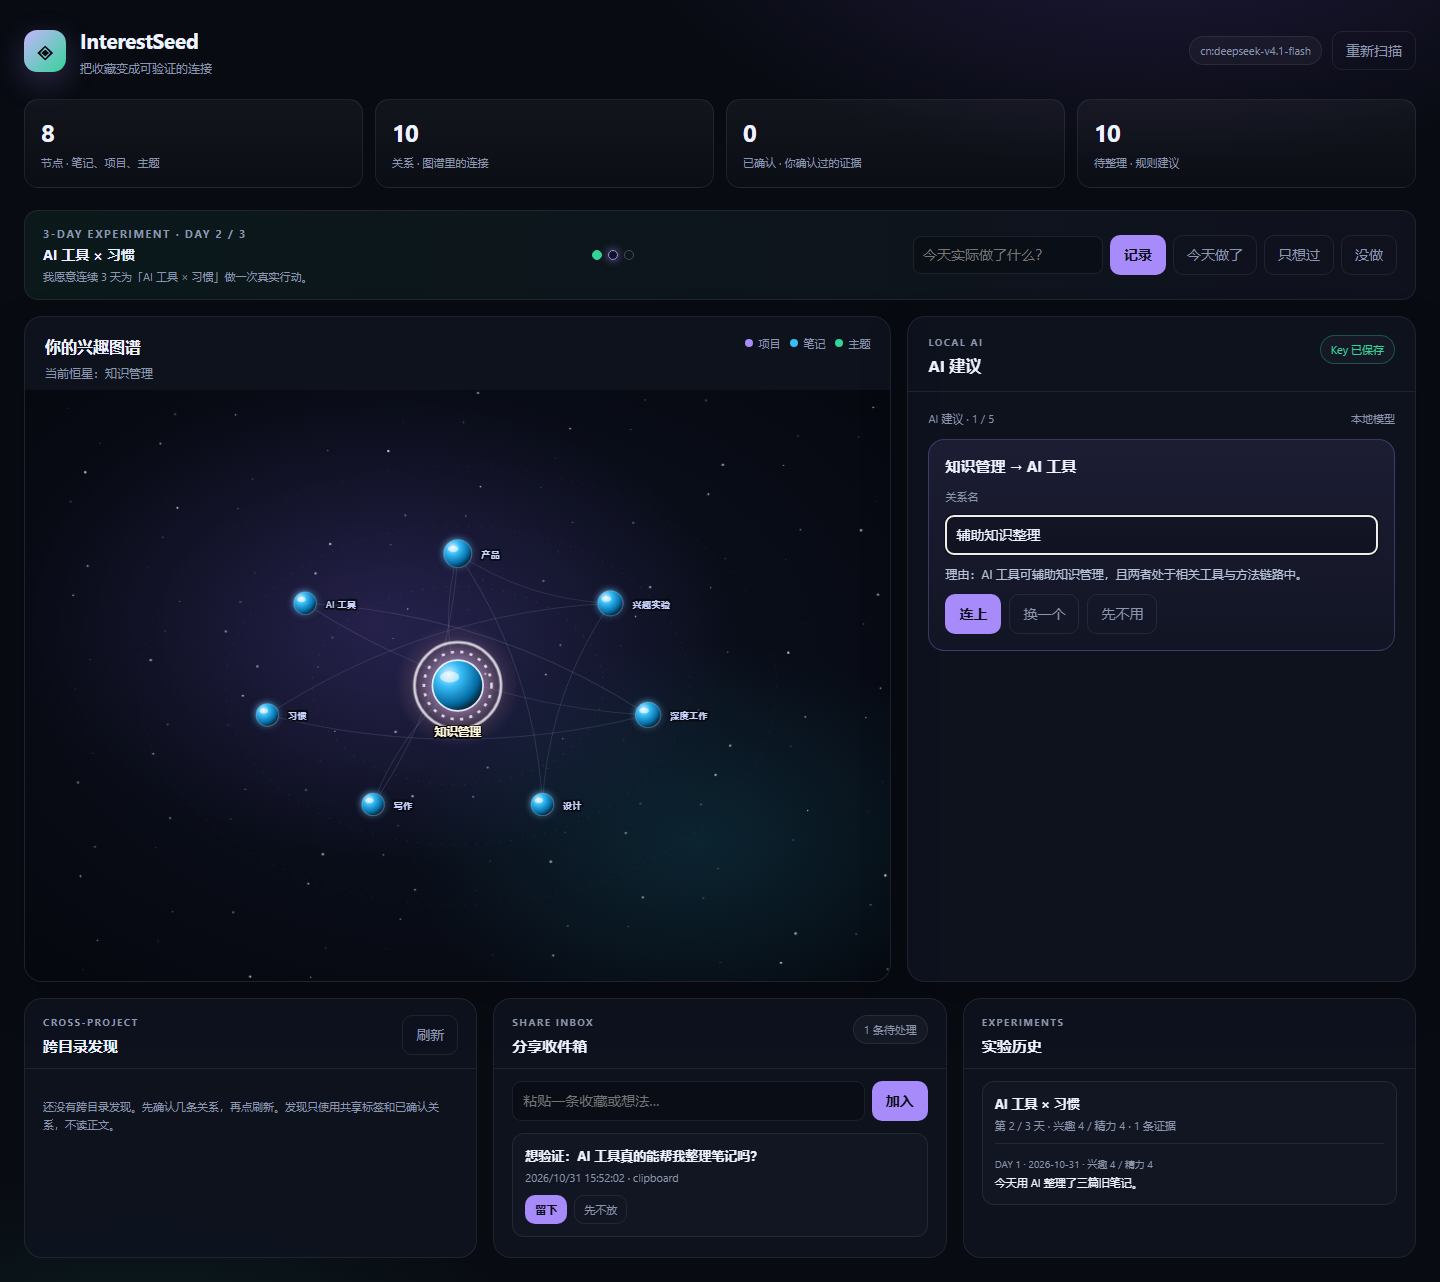
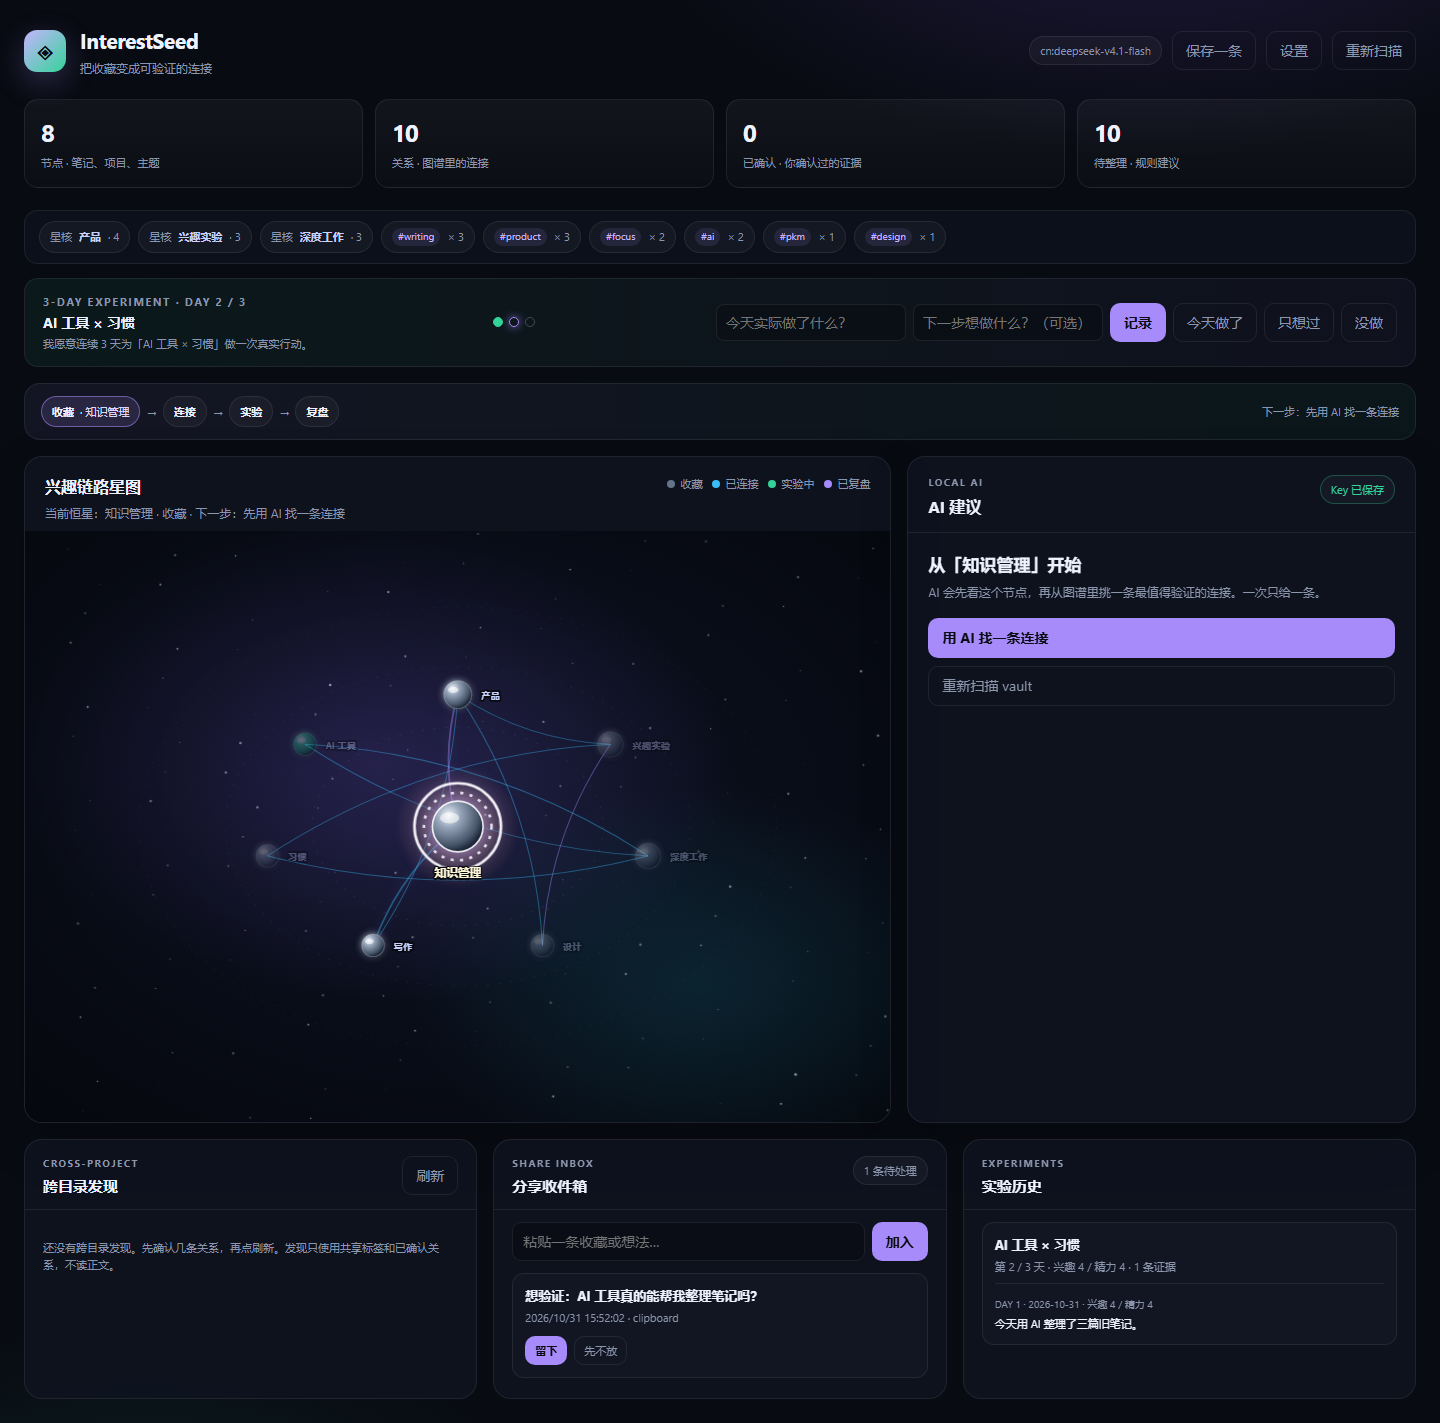
Clarify the InterestSeed chain in the planet graph

diff --git a/standalone/web/app.js b/standalone/web/app.js
@@ -37,6 +37,7 @@ function render() {
   keyStatus.className = `pill ${state.data.keyReady ? 'ready' : 'missing'}`;
   renderStats();
   renderInsights();
+  renderChainStrip();
   renderGraph();
   renderExperiment();
   renderDiscoveries();
@@ -361,6 +362,48 @@ function svgEl(name, attrs = {}) {
   return element;
 }
 
+function chainStateOf(nodeId) {
+  const graph = state.data?.graph;
+  if (!graph) return 'captured';
+  const experiments = state.data.experiments ?? [];
+  if (experiments.some((item) => item.nodeId === nodeId && item.status === 'active')) return 'experimenting';
+  if (experiments.some((item) => item.nodeId === nodeId && item.status === 'complete')) return 'reviewed';
+  const connected = graph.edges.some((edge) => edge.status === 'confirmed'
+    && (edge.source === nodeId || edge.target === nodeId));
+  return connected ? 'connected' : 'captured';
+}
+
+function chainMeta(stage) {
+  return {
+    captured: { label: '收藏', next: '先用 AI 找一条连接', gradient: 'planet-captured' },
+    connected: { label: '已连接', next: '开始 3 天实验', gradient: 'planet-connected' },
+    experimenting: { label: '实验中', next: '今天记一条真实证据', gradient: 'planet-experimenting' },
+    reviewed: { label: '已复盘', next: '决定继续，还是放下', gradient: 'planet-reviewed' },
+  }[stage] ?? { label: '收藏', next: '先用 AI 找一条连接', gradient: 'planet-captured' };
+}
+
+function renderChainStrip() {
+  const strip = document.getElementById('chain-strip');
+  if (!strip) return;
+  const nodeId = state.selectedId ?? state.data?.graph?.nodes?.[0]?.id;
+  const stage = nodeId ? chainStateOf(nodeId) : 'captured';
+  const meta = chainMeta(stage);
+  const steps = [
+    ['captured', '收藏'],
+    ['connected', '连接'],
+    ['experimenting', '实验'],
+    ['reviewed', '复盘'],
+  ];
+  const stepHtml = steps
+    .map(([key, label], index) => {
+      const active = key === stage ? ' active' : '';
+      const arrow = index < steps.length - 1 ? '<span class="chain-arrow">→</span>' : '';
+      return `<span class="chain-step${active}"><strong>${label}</strong>${key === stage ? ` · ${escapeHtml(nodeTitle(nodeId))}` : ''}</span>${arrow}`;
+    })
+    .join('');
+  strip.innerHTML = `<div class="chain-steps">${stepHtml}</div><div class="chain-action">下一步：${escapeHtml(meta.next)}</div>`;
+}
+
 function renderGraph() {
   const graph = state.data.graph;
   const svg = document.getElementById('graph');
@@ -449,6 +492,30 @@ function renderGraph() {
       <stop offset="82%" stop-color="#047857"/>
       <stop offset="100%" stop-color="#022c22"/>
     </radialGradient>
+    <radialGradient id="planet-captured" cx="32%" cy="28%" r="72%">
+      <stop offset="0%" stop-color="#f1f5f9"/>
+      <stop offset="34%" stop-color="#94a3b8"/>
+      <stop offset="82%" stop-color="#475569"/>
+      <stop offset="100%" stop-color="#1e293b"/>
+    </radialGradient>
+    <radialGradient id="planet-connected" cx="32%" cy="28%" r="72%">
+      <stop offset="0%" stop-color="#e0f2fe"/>
+      <stop offset="34%" stop-color="#38bdf8"/>
+      <stop offset="82%" stop-color="#0369a1"/>
+      <stop offset="100%" stop-color="#082f49"/>
+    </radialGradient>
+    <radialGradient id="planet-experimenting" cx="32%" cy="28%" r="72%">
+      <stop offset="0%" stop-color="#ecfdf5"/>
+      <stop offset="34%" stop-color="#34d399"/>
+      <stop offset="82%" stop-color="#047857"/>
+      <stop offset="100%" stop-color="#022c22"/>
+    </radialGradient>
+    <radialGradient id="planet-reviewed" cx="32%" cy="28%" r="72%">
+      <stop offset="0%" stop-color="#f5f3ff"/>
+      <stop offset="34%" stop-color="#a78bfa"/>
+      <stop offset="82%" stop-color="#6d28d9"/>
+      <stop offset="100%" stop-color="#2e1065"/>
+    </radialGradient>
     <filter id="soft-glow" x="-80%" y="-80%" width="260%" height="260%">
       <feGaussianBlur stdDeviation="4" result="blur"/>
       <feMerge><feMergeNode in="blur"/><feMergeNode in="SourceGraphic"/></feMerge>
@@ -513,20 +580,21 @@ function renderGraph() {
     const controlY = my + (dx / distance) * bend;
     svg.appendChild(svgEl('path', {
       d: `M ${from.x} ${from.y} Q ${controlX} ${controlY} ${to.x} ${to.y}`,
-      class: `edge ${edge.status === 'confirmed' ? 'confirmed' : ''} ${touchesFocus ? 'focus-edge' : ''}`,
+      class: `edge ${edge.status === 'confirmed' ? 'confirmed' : ''} ${String(edge.relation ?? '').toLowerCase().replace(/[^a-z0-9]+/g, '-')} ${touchesFocus ? 'focus-edge' : ''}`,
       'fill': 'none',
     }));
   }
 
-  const colors = { project: 'planet-project', topic: 'planet-topic', document: 'planet-document' };
   for (const node of nodes) {
     const pos = positions.get(node.id);
     if (!pos) continue;
     const isSelected = node.id === selected.id;
     const isNeighbor = neighborIds.has(node.id);
+    const stage = chainStateOf(node.id);
+    const stageMeta = chainMeta(stage);
     const r = isSelected ? 24 : Math.min(16, 8 + (degree.get(node.id) ?? 0) * 1.3);
     const group = svgEl('g', {
-      class: `node ${isSelected ? 'selected' : ''} ${!isSelected && !isNeighbor ? 'dimmed' : ''}`,
+      class: `node ${isSelected ? 'selected' : ''} ${!isSelected && !isNeighbor ? 'dimmed' : ''} chain-${stage}`,
       transform: `translate(${pos.x}, ${pos.y})`,
       tabindex: 0,
     });
@@ -537,13 +605,13 @@ function renderGraph() {
       state.lastConnected = null;
       render();
     });
-    group.appendChild(svgEl('title', {})).textContent = node.title;
+    group.appendChild(svgEl('title', {})).textContent = `${node.title} · ${stageMeta.label}`;
     if (isSelected) {
       group.appendChild(svgEl('circle', { r: r + 17, fill: 'url(#star-halo)', class: 'sun-halo' }));
       group.appendChild(svgEl('circle', { r: r + 8, fill: 'none', class: 'selected-ring' }));
     }
     group.appendChild(svgEl('circle', {
-      r, fill: `url(#${colors[node.type] ?? 'planet-document'})`,
+      r, fill: `url(#${stageMeta.gradient})`,
       class: 'planet', filter: 'url(#node-glow)',
     }));
     group.appendChild(svgEl('ellipse', {
@@ -568,8 +636,10 @@ function renderGraph() {
     svg.appendChild(group);
   }
 
+  const focusStage = chainStateOf(state.selectedId);
+  const focusMeta = chainMeta(focusStage);
   document.getElementById('graph-subtitle').textContent = state.selectedId
-    ? `当前恒星：${nodeTitle(state.selectedId)}`
+    ? `当前恒星：${nodeTitle(state.selectedId)} · ${focusMeta.label} · 下一步：${focusMeta.next}`
     : '选择一个节点，让 AI 找一条最值得验证的连接。';
 }
 

diff --git a/standalone/web/styles.css b/standalone/web/styles.css
@@ -266,3 +266,32 @@ button, input { font: inherit; }
 
 .modal-body select { padding: 8px 10px; border-radius: 9px; border: 1px solid var(--line); background: rgba(0,0,0,.25); color: var(--text); }
 
+.chain-strip {
+  display: flex; align-items: center; justify-content: space-between; gap: 10px;
+  flex-wrap: wrap; padding: 12px 16px; margin-bottom: 16px;
+  border-radius: 16px; border: 1px solid var(--line);
+  background: linear-gradient(90deg, rgba(167,139,250,.08), rgba(52,211,153,.06));
+}
+.chain-steps { display: flex; align-items: center; gap: 6px; flex-wrap: wrap; }
+.chain-step {
+  display: inline-flex; align-items: center; gap: 6px;
+  padding: 6px 10px; border-radius: 999px;
+  border: 1px solid var(--line); background: rgba(255,255,255,.035);
+  color: var(--muted); font-size: 11px;
+}
+.chain-step strong { color: var(--text); font-weight: 700; }
+.chain-step.active {
+  border-color: rgba(167,139,250,.55);
+  background: rgba(167,139,250,.14);
+  color: #ddd6fe;
+}
+.chain-arrow { color: var(--muted); font-size: 12px; }
+.chain-action { color: var(--muted); font-size: 11px; }
+.dot.chain-captured { background: #64748b; }
+.dot.chain-connected { background: #38bdf8; }
+.dot.chain-experimenting { background: #34d399; }
+.dot.chain-reviewed { background: #a78bfa; }
+.edge.related-to { stroke: rgba(167, 139, 250, .42); }
+.edge.references { stroke: rgba(56, 189, 248, .38); }
+.edge.experiment-link { stroke: rgba(52, 211, 153, .55); stroke-width: 1.6; }
+.edge.about { stroke: rgba(251, 191, 36, .45); }

diff --git a/standalone/web/index.html b/standalone/web/index.html
@@ -28,20 +28,23 @@
     <section class="insights-strip" id="insights-strip"></section>
     <section class="experiment-strip" id="experiment-strip"></section>
 
+    <section class="chain-strip" id="chain-strip"></section>
+
     <main class="workspace">
       <section class="graph-pane">
         <div class="pane-head">
           <div>
-            <h2>你的兴趣图谱</h2>
+            <h2>兴趣链路星图</h2>
             <p id="graph-subtitle">选择一个节点，让 AI 找一条最值得验证的连接。</p>
           </div>
           <div class="legend">
-            <span><i class="dot project"></i>项目</span>
-            <span><i class="dot document"></i>笔记</span>
-            <span><i class="dot topic"></i>主题</span>
+            <span><i class="dot chain-captured"></i>收藏</span>
+            <span><i class="dot chain-connected"></i>已连接</span>
+            <span><i class="dot chain-experimenting"></i>实验中</span>
+            <span><i class="dot chain-reviewed"></i>已复盘</span>
           </div>
         </div>
-        <svg id="graph" viewBox="0 0 820 560" role="img" aria-label="兴趣图谱"></svg>
+        <svg id="graph" viewBox="0 0 820 560" role="img" aria-label="兴趣链路星图"></svg>
       </section>
 
       <aside class="ai-pane">

diff --git a/review/standalone-4.0.0.md b/review/standalone-4.0.0.md
@@ -37,6 +37,7 @@ connect → 200
 undo → 200
 experiment strip: DAY 2 / 3
 lower panels: discoveries / share inbox / experiment history
+chain strip: 收藏 → 连接 → 实验 → 复盘
 ```
 
 ## Discovery
@@ -67,7 +68,7 @@ second log on the same day → rejected: 今天已经记录过了，明天再来
 
 ```text
 release/interestseed-standalone-v4.0.0.zip
-sha256: d049ef162ceacf0b2e7c33abb8423e88d17bb8f1a78ffc2d5e4407c7c1217985
+sha256: 24d7291f392e73a20bb6126dd9e97bef41be14d6064c7bf318dc5de3a4872c87
 packaged cli.js status → 8 nodes / 10 edges
 packaged web / → 200
 ```

diff --git a/standalone/README.md b/standalone/README.md
@@ -46,6 +46,7 @@ Web 里也有：
 保存一条       捕获弹窗
 设置           本地模型 / Key / 扫描目录
 AI 建议        一条建议
+链路条         收藏 → 连接 → 实验 → 复盘
 实验条         快速记录
 发现 / 收件箱 / 实验历史
 ```
